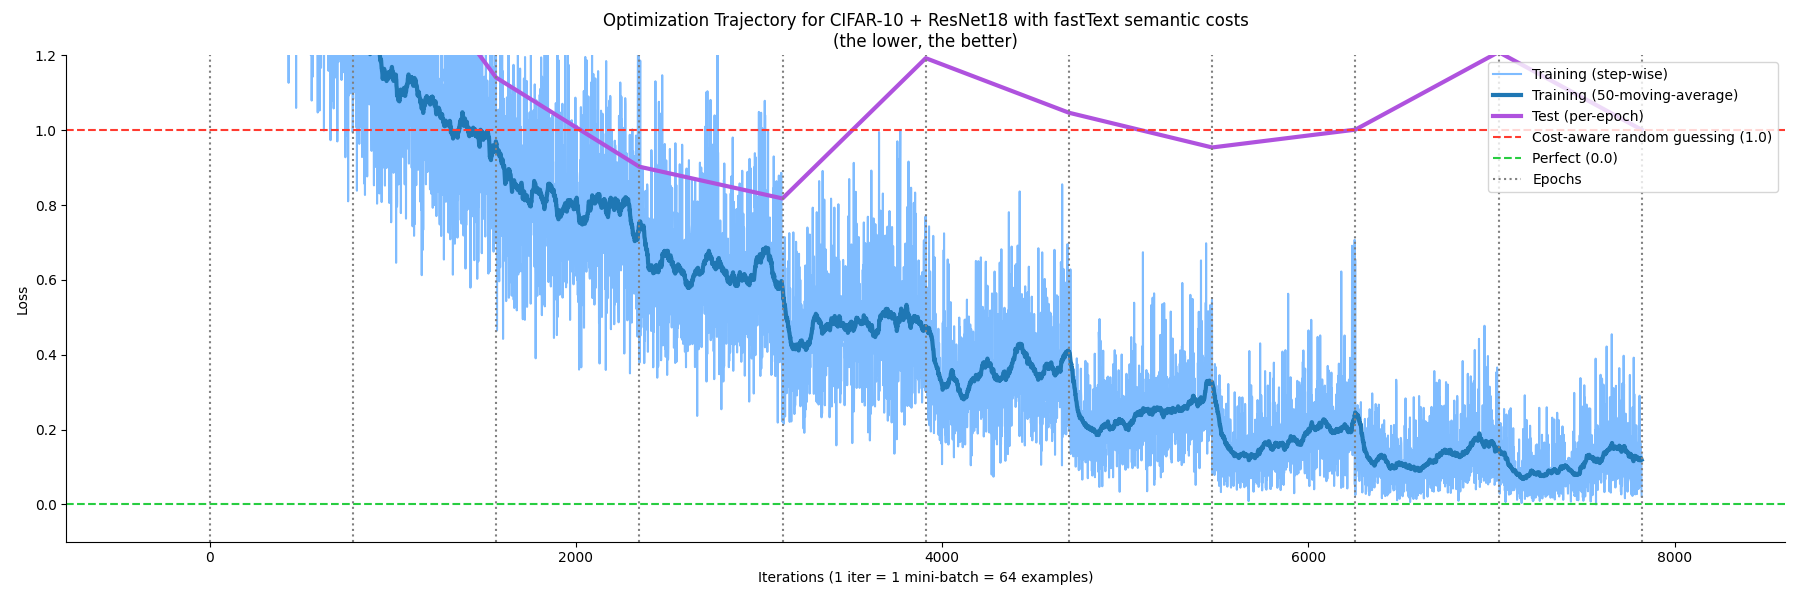
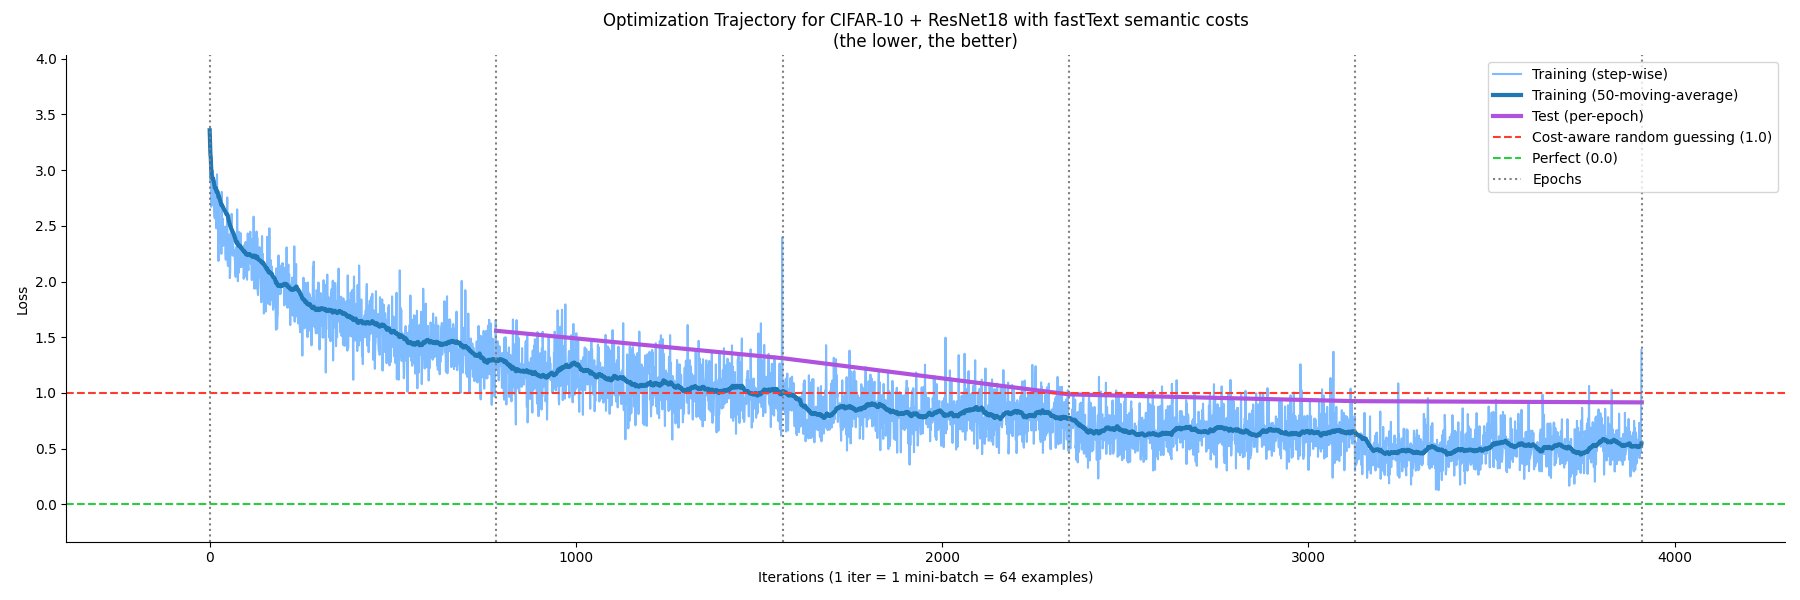
better image cureve

diff --git a/cacis/utils.py b/cacis/utils.py
@@ -208,13 +208,13 @@ def plot_loss_trajectory(
     # Baseline reference lines
     if normalize:
         plt.axhline(1.0, linestyle="--", label="Cost-aware random guessing (1.0)", color="#FF3B30")
-        y_limits = (-0.1, 1.2)
+
+    if crop:
+        M = np.quantile(np.array(list(values)), 0.90)
     else:
-        if crop:
-            M = np.quantile(np.array(list(values)), 0.90)
-        else:
-            M = np.max(np.array(list(values)))
-        y_limits = (-0.1 * M, 1.2 * M)
+        M = np.max(np.array(list(values)))
+    
+    y_limits = (-0.1 * M, 1.2 * M)
 
     plt.axhline(0.0, linestyle="--", label="Perfect (0.0)", color="#28CD41")
 
